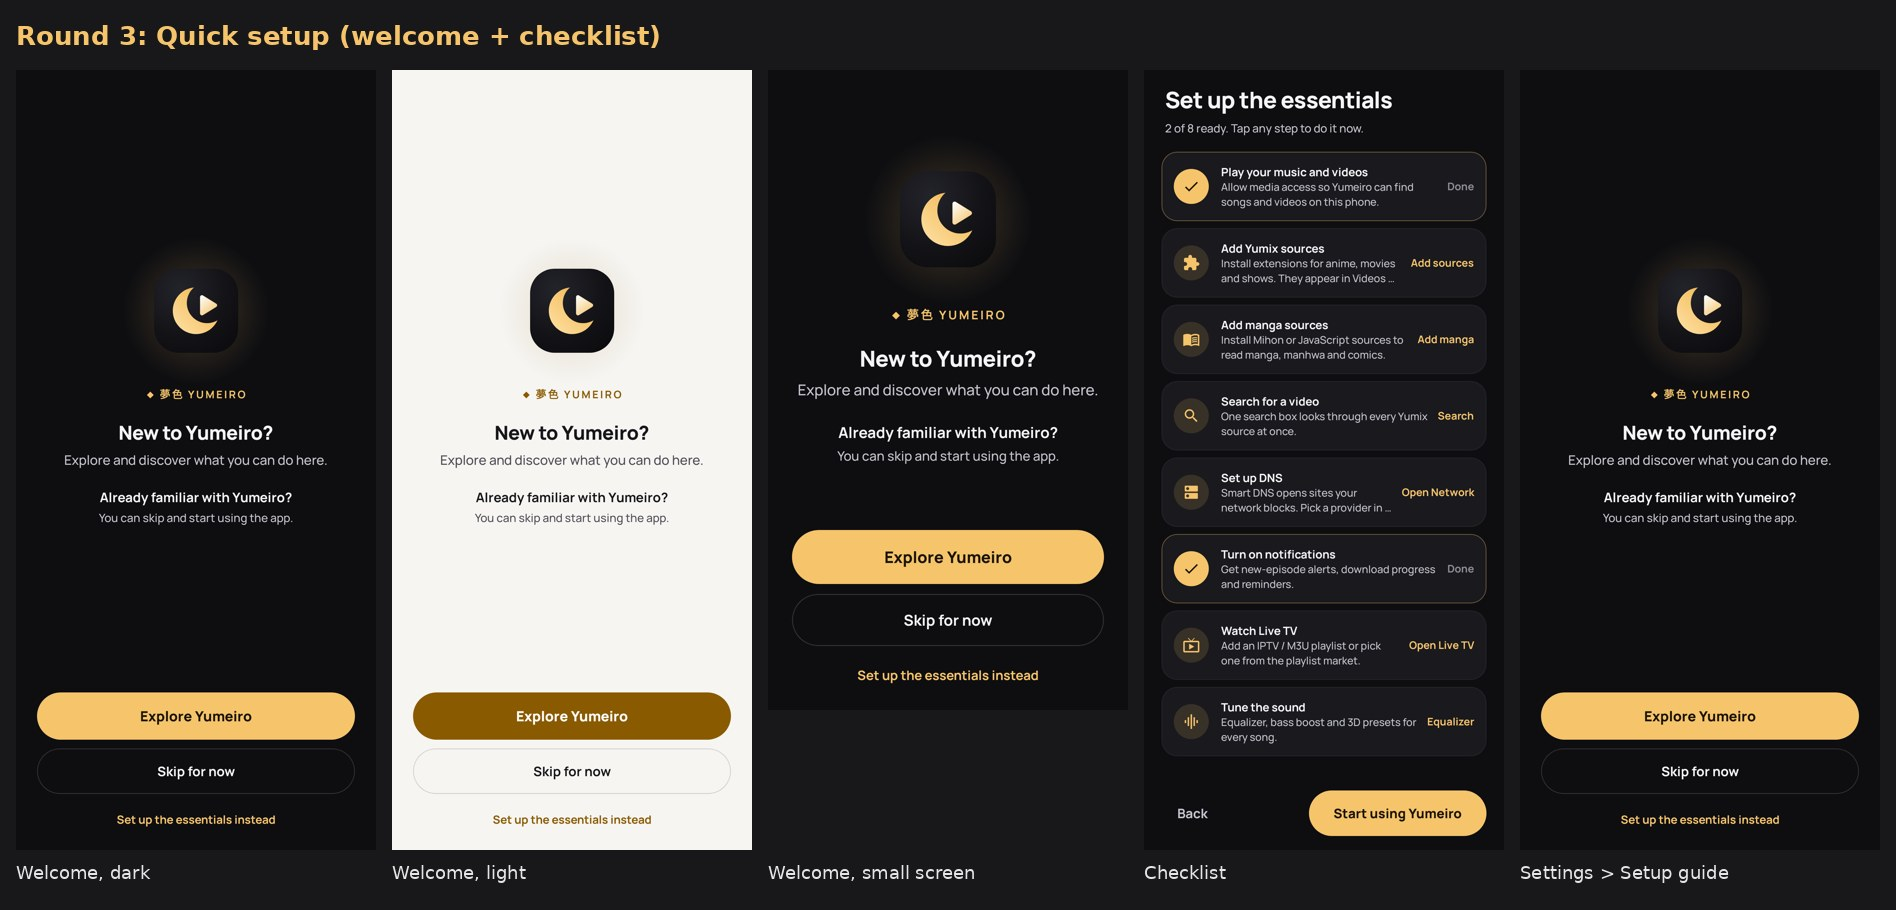
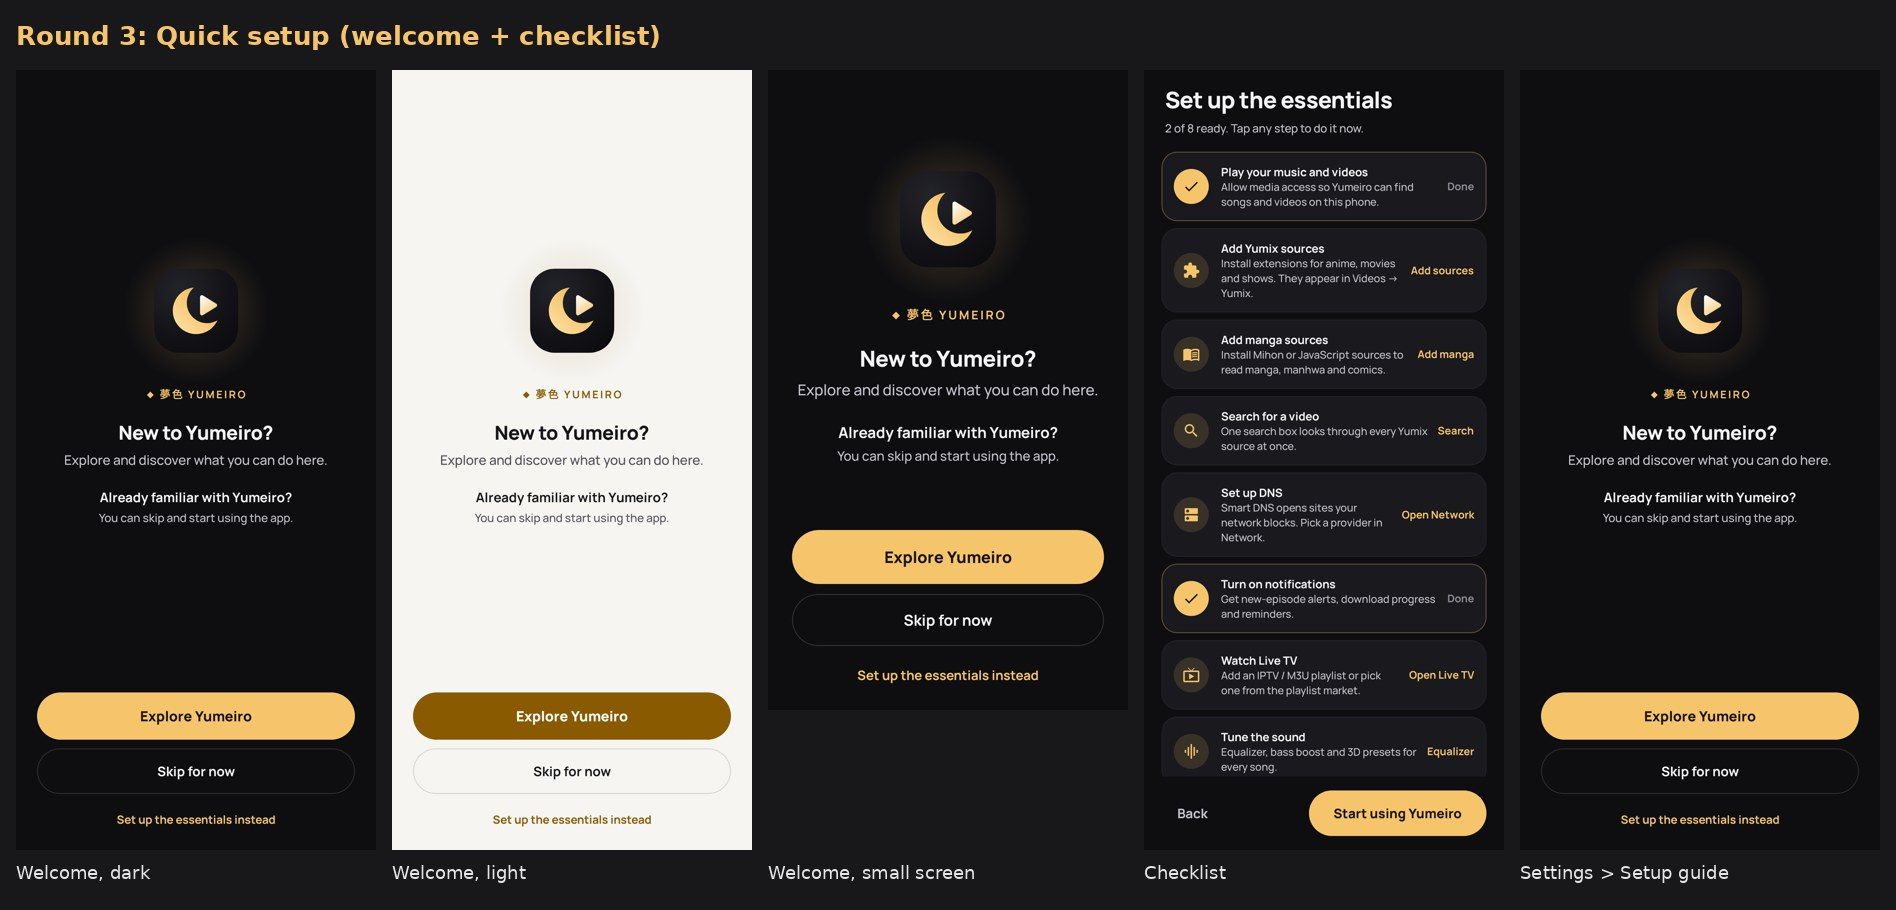
Redesign v3: let source-menu and checklist descriptions wrap; clearer menu status text

Changed region(s): [[0.5912, 0.5231, 0.778, 0.8615], [0.6224, 0.2769, 0.778, 0.4923], [0.7468, 0.2769, 0.778, 0.3077]]

diff --git a/app/src/main/java/dev/asfakul/yumeiro/ui/components/SourceSelector.kt b/app/src/main/java/dev/asfakul/yumeiro/ui/components/SourceSelector.kt
@@ -156,13 +156,13 @@ private fun SourceRow(o: SourceOption, selected: Boolean, index: Int, reduced: B
         Spacer(Modifier.width(14.dp))
         Column(Modifier.weight(1f)) {
             Text(o.title, color = p.textPrimary, fontSize = 15.sp, fontWeight = if (selected) FontWeight.ExtraBold else FontWeight.Bold, maxLines = 1, overflow = TextOverflow.Ellipsis)
-            Text(o.description, color = p.textSecondary, fontSize = 12.sp, lineHeight = 16.sp, maxLines = 1, overflow = TextOverflow.Ellipsis)
+            Text(o.description, color = p.textSecondary, fontSize = 12.sp, lineHeight = 16.sp, maxLines = 2, overflow = TextOverflow.Ellipsis)
         }
         Spacer(Modifier.width(10.dp))
         Column(horizontalAlignment = Alignment.End, verticalArrangement = Arrangement.Center) {
             if (selected) Icon(Icons.Default.Check, "Selected", tint = p.accent, modifier = Modifier.size(20.dp))
             Text(
-                o.status, color = if (o.attention) p.accent else p.textTertiary, fontSize = 11.sp,
+                o.status, color = if (o.attention) p.accent else p.textSecondary, fontSize = 12.sp,
                 fontWeight = if (o.attention) FontWeight.Bold else FontWeight.Normal, maxLines = 1,
             )
         }

diff --git a/app/src/main/java/dev/asfakul/yumeiro/ui/screens/extras/SetupGuide.kt b/app/src/main/java/dev/asfakul/yumeiro/ui/screens/extras/SetupGuide.kt
@@ -366,7 +366,7 @@ fun SetupStepRow(step: SetupStep, done: Boolean, onClick: () -> Unit) {
         Spacer(Modifier.width(14.dp))
         Column(Modifier.weight(1f)) {
             Text(step.title, style = MaterialTheme.typography.titleSmall, color = p.textPrimary, fontWeight = FontWeight.Bold, maxLines = 1, overflow = TextOverflow.Ellipsis)
-            Text(step.detail, style = MaterialTheme.typography.bodySmall, color = p.textSecondary, maxLines = 2, overflow = TextOverflow.Ellipsis)
+            Text(step.detail, style = MaterialTheme.typography.bodySmall, color = p.textSecondary, maxLines = 3, overflow = TextOverflow.Ellipsis)
         }
         Spacer(Modifier.width(10.dp))
         Text(
